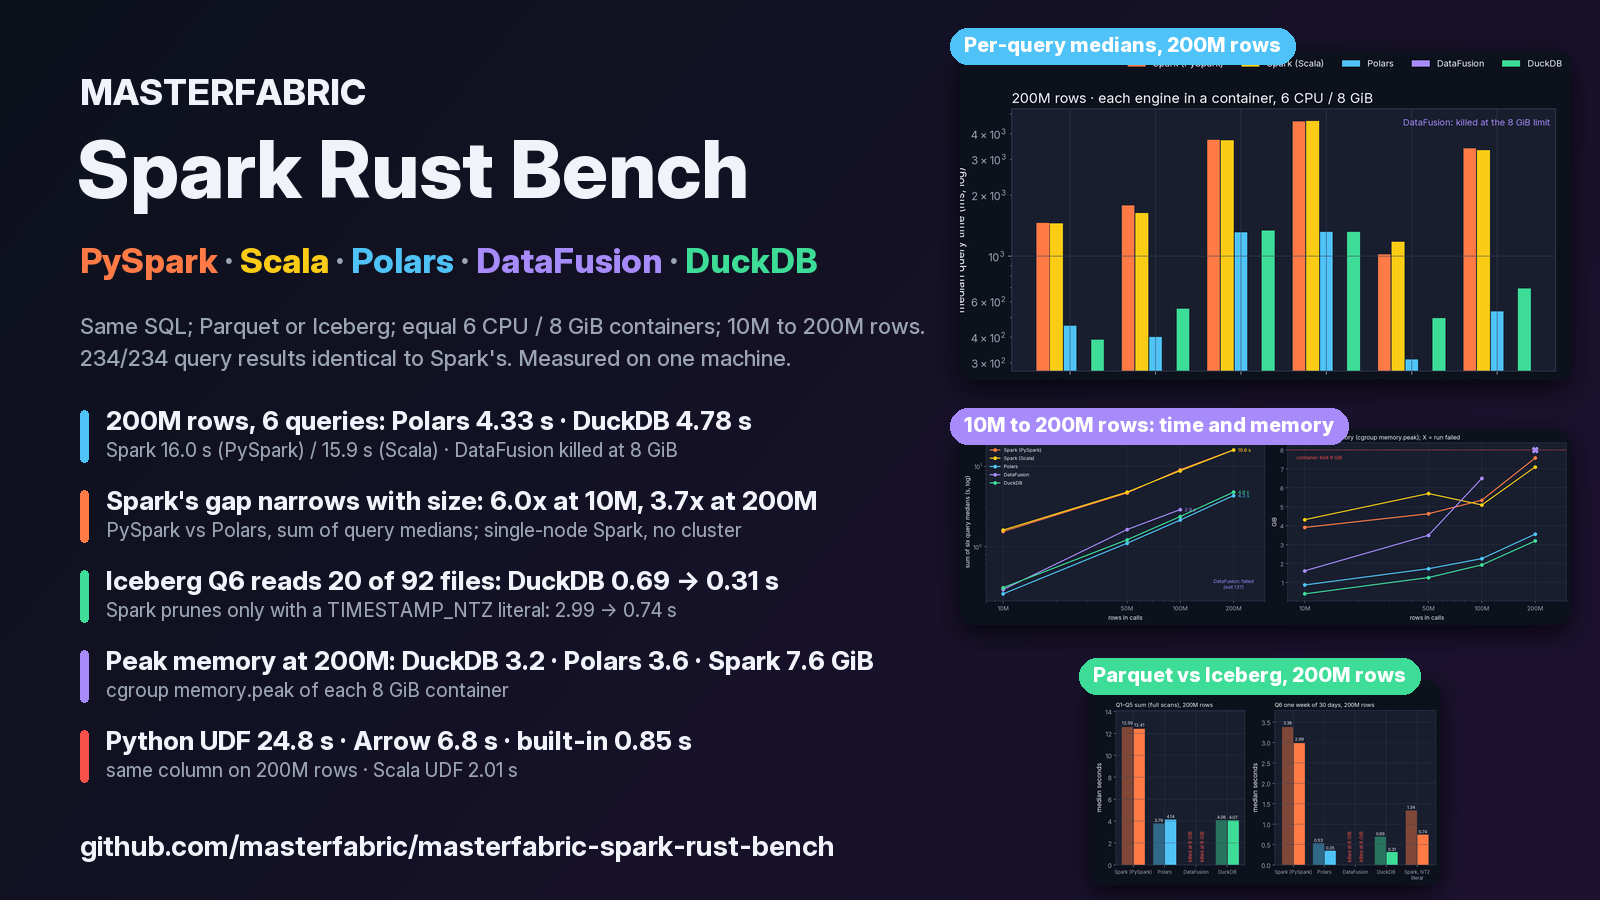
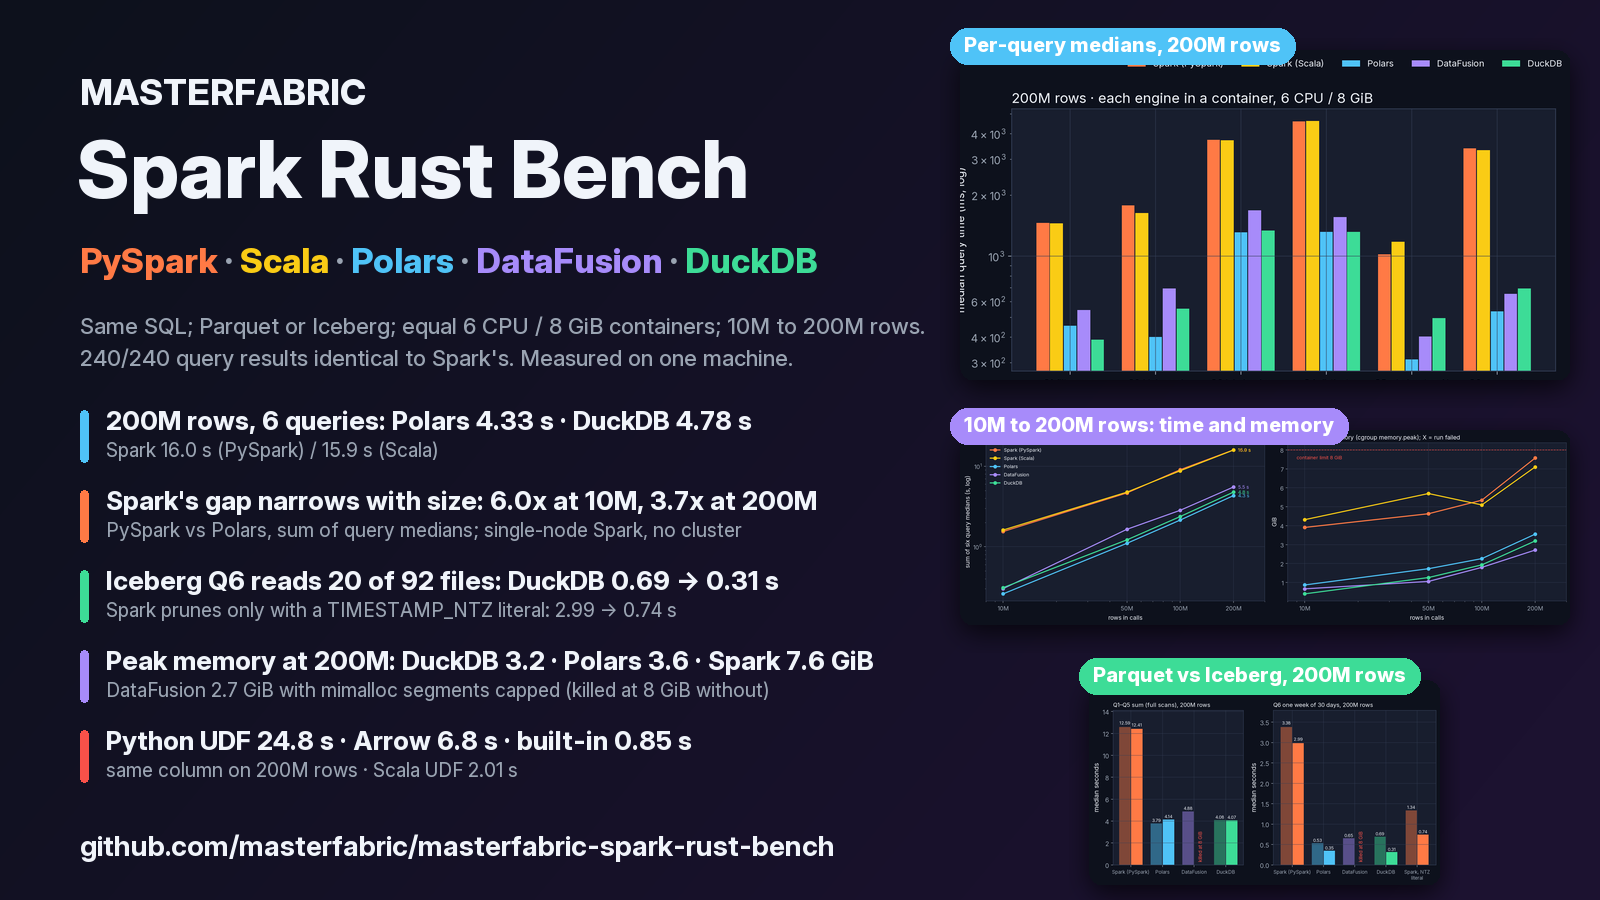
README: DataFusion at 200M rows (figure 7), the NTZ pruning reproduction (figure 8), updated tables and limitations; hero and setup diagram from the new results

diff --git a/viz/make_hero.py b/viz/make_hero.py
@@ -93,7 +93,8 @@ def main():
         (f"Iceberg Q6 reads {plan['q6_one_week']['files']} of {plan['full_scan']['files']} files: DuckDB {q(du, 'q6_one_week'):.2f} → {q(idu, 'q6_one_week'):.2f} s",
          f"Spark prunes only with a TIMESTAMP_NTZ literal: {q(ip, 'q6_one_week'):.2f} → {q(ip, 'q6_one_week_ntz'):.2f} s", GREEN),
         (f"Peak memory at 200M: DuckDB {du['peak_mem_mib'] / 1024:.1f} · Polars {po['peak_mem_mib'] / 1024:.1f} · Spark {p['peak_mem_mib'] / 1024:.1f} GiB",
-         "cgroup memory.peak of each 8 GiB container", PURPLE),
+         (f"DataFusion {s['engines']['datafusion_200m']['peak_mem_mib'] / 1024:.1f} GiB with mimalloc segments capped (killed at 8 GiB without)"
+          if "datafusion_200m" in s["engines"] else "cgroup memory.peak of each 8 GiB container"), PURPLE),
         (f"Python UDF {q(p, 'udf_tier_py'):.1f} s · Arrow {q(p, 'udf_tier_arrow'):.1f} s · built-in {q(p, 'udf_builtin'):.2f} s",
          f"same column on 200M rows · Scala UDF {q(sc, 'udf_tier_scala'):.2f} s", RED),
     ]

diff --git a/viz/make_diagrams.py b/viz/make_diagrams.py
@@ -36,7 +36,7 @@ def setup():
     d.text((1345, 316), "cgroup memory.peak", font=font(18, 600), fill=GREY)
     d.text((1345, 352), "a killed run is", font=font(18, 600), fill=GREY)
     d.text((1345, 378), "recorded, not hidden", font=font(18, 600), fill=GREY)
-    box(d, (1345, 600, 1570, 840), "collect.py", ["rows equal?", f"{ok_runs}/{runs} runs", "6/6 queries each", f"{fails} runs killed"],
+    box(d, (1345, 600, 1570, 840), "collect.py", ["rows equal?", f"{ok_runs}/{runs} runs", "6/6 queries each", f"{fails} run{'' if fails == 1 else 's'} killed"],
         RED, title_size=22, line_size=17)
     arrow(d, (1320, 720), (1345, 720), RED)
     arrow(d, (390, 405), (470, 470), GREEN)

diff --git a/README.md b/README.md
@@ -6,9 +6,14 @@ The same six analytical SQL queries over the same synthetic telco call records, 
 200M rows, run by **PySpark**, **Scala Spark**, **Polars**, **Apache DataFusion** and **DuckDB**,
 each alone in a container with the same limits (6 CPU, 8 GiB). The data is read from a folder of
 Parquet files and, at 50M and 200M rows, from an **Apache Iceberg** table written by Spark. Every
-run's rows are checked against Spark's before any time counts: **234 of 234 query results are
-identical** across 38 runs. Two runs did not finish (DataFusion at 200M rows, killed at the
-memory limit); they are reported, not dropped.
+run's rows are checked against Spark's before any time counts: **240 of 240 query results are
+identical** across 39 runs. One run did not finish (DataFusion reading the 200M-row Iceberg table,
+killed at the memory limit in the first round); it is reported, not dropped. DataFusion's memory
+growth at 200M rows was traced to its bundled allocator and fixed with one environment variable
+([below](#datafusion-memory-at-200m-rows)).
+
+Since 2026-11-23 there is also a [self-contained reproduction](examples/spark_ntz_pruning) of the
+Spark TIMESTAMP vs TIMESTAMP_NTZ pruning finding.
 
 It answers five questions an AI/data architect gets asked:
 
@@ -28,22 +33,22 @@ are read from [`results/summary.json`](results/summary.json).
 <p align="center"><img src="docs/images/query_times.png" alt="Grouped bar charts of median query time per engine and query at 50M and 200M rows, log scale" width="100%"></p>
 <p align="center"><em>Figure 1. Median of three timed runs after one first run, log scale, at 50M and 200M rows.
 Polars and DuckDB lead on every query; Spark from Python and from Scala are within noise of each
-other. DataFusion has no bars at 200M rows: it was killed at the 8 GiB limit.</em></p>
+other. DataFusion at 200M rows runs with MIMALLOC_TARGET_SEGMENTS_PER_THREAD=2 (see Figure 7).</em></p>
 
 Median seconds at **200M rows** (4,150 MiB of Parquet):
 
 | Query | PySpark | Scala Spark | Polars | DuckDB | DataFusion |
 |---|---:|---:|---:|---:|---:|
-| Q1 filter + aggregate | 1.457 | 1.450 | 0.454 | 0.389 | killed |
-| Q2 high-cardinality group-by, top 100 | 1.774 | 1.631 | 0.400 | 0.551 | |
-| Q3 join cells + daily aggregate | 3.736 | 3.720 | 1.307 | 1.334 | |
-| Q4 count distinct subscribers per region | 4.603 | 4.624 | 1.319 | 1.314 | |
-| Q5 window top-3 cells per region | 1.022 | 1.175 | 0.311 | 0.496 | |
-| Q6 one week of 30 days, joined to cells | 3.383 | 3.322 | 0.534 | 0.693 | |
-| **Sum** | **15.975** | **15.922** | **4.325** | **4.777** | |
+| Q1 filter + aggregate | 1.457 | 1.450 | 0.454 | 0.389 | 0.544 |
+| Q2 high-cardinality group-by, top 100 | 1.774 | 1.631 | 0.400 | 0.551 | 0.693 |
+| Q3 join cells + daily aggregate | 3.736 | 3.720 | 1.307 | 1.334 | 1.682 |
+| Q4 count distinct subscribers per region | 4.603 | 4.624 | 1.319 | 1.314 | 1.559 |
+| Q5 window top-3 cells per region | 1.022 | 1.175 | 0.311 | 0.496 | 0.403 |
+| Q6 one week of 30 days, joined to cells | 3.383 | 3.322 | 0.534 | 0.693 | 0.652 |
+| **Sum** | **15.975** | **15.922** | **4.325** | **4.777** | **5.532** |
 
 At **50M rows** (1,038 MiB) the sums are 4.660 s (PySpark), 4.769 s (Scala), 1.103 s (Polars),
-1.217 s (DuckDB) and 1.632 s (DataFusion). Spark's first run of a query is up to 3.2 times slower
+1.217 s (DuckDB) and 1.647 s (DataFusion). Spark's first run of a query is up to 3.2 times slower
 than its median at 50M rows (PySpark Q1: 1.42 s first, 0.48 s median) and up to 2.1 times at 200M rows.
 DuckDB's and DataFusion's first runs are within 10% of their medians; Polars' first runs of Q1
 to Q3 are 2 to 3.4 times its medians.
@@ -52,22 +57,44 @@ to Q3 are 2 to 3.4 times its medians.
 
 <p align="center"><img src="docs/images/scaling.png" alt="Line charts: sum of six query medians and peak container memory against rows, 10M to 200M, per engine" width="100%"></p>
 <p align="center"><em>Figure 2. Left: sum of the six query medians as data grows (log-log). Right: peak
-container memory; the X marks DataFusion's killed run at 200M rows, the dashed line the 8 GiB limit.</em></p>
+container memory, the dashed line the 8 GiB limit. DataFusion runs with the mimalloc setting from Figure 7 at every size.</em></p>
 
 | Rows (Parquet) | PySpark | Scala Spark | Polars | DuckDB | DataFusion | PySpark / Polars |
 |---|---:|---:|---:|---:|---:|---:|
-| 10M (207 MiB) | 1.545 s | 1.613 s | 0.260 s | 0.310 s | 0.293 s | 5.9x |
-| 50M (1,038 MiB) | 4.660 s | 4.769 s | 1.103 s | 1.217 s | 1.632 s | 4.2x |
-| 100M (2,075 MiB) | 9.067 s | 8.793 s | 2.146 s | 2.373 s | 2.896 s | 4.2x |
-| 200M (4,150 MiB) | 15.975 s | 15.922 s | 4.325 s | 4.777 s | killed (exit 137) | 3.7x |
-| Peak memory at 200M | 7.6 GiB | 7.1 GiB | 3.6 GiB | 3.2 GiB | 8 GiB (limit) | |
+| 10M (207 MiB) | 1.545 s | 1.613 s | 0.260 s | 0.310 s | 0.301 s | 5.9x |
+| 50M (1,038 MiB) | 4.660 s | 4.769 s | 1.103 s | 1.217 s | 1.647 s | 4.2x |
+| 100M (2,075 MiB) | 9.067 s | 8.793 s | 2.146 s | 2.373 s | 2.838 s | 4.2x |
+| 200M (4,150 MiB) | 15.975 s | 15.922 s | 4.325 s | 4.777 s | 5.532 s | 3.7x |
+| Peak memory at 200M | 7.6 GiB | 7.1 GiB | 3.6 GiB | 3.2 GiB | 2.7 GiB | |
 
 From 100M to 200M rows the single-node engines take 2.0 times as long and Spark 1.8 times: Spark's
-fixed cost per query is a smaller share of a bigger job, so its gap narrows, slowly. DataFusion's
-resident memory grows with each repeated query in one session (Q1 at 200M rows: 0.9, 1.7, 2.5,
-3.3 GiB after runs 1 to 4), which ends the 200M-row run on Q3; a bounded spill pool and glibc
-allocator settings did not change it ([ADR 0006](docs/adr/0006-scaling-to-200m-rows.md)). On the
-host without a memory limit DataFusion finished 200M rows in 2.917 s.
+fixed cost per query is a smaller share of a bigger job, so its gap narrows, slowly. In the first
+round DataFusion was killed at 200M rows; with the allocator setting below it finishes in 5.532 s
+using 2.7 GiB, the least memory of the five engines
+([ADR 0006](docs/adr/0006-scaling-to-200m-rows.md), [ADR 0007](docs/adr/0007-datafusion-memory-and-mimalloc.md)).
+On the host without a memory limit DataFusion finished 200M rows in 2.917 s.
+
+### DataFusion memory at 200M rows
+
+<p align="center"><img src="docs/images/df_memory.png" alt="Left: DataFusion resident memory after each of 24 query runs at 200M rows for eight variants; six are killed at Q3, the mimalloc segment cap and a 12 s pause stay flat. Right: memory added per run next to the compressed size of the column read, for three columns" width="100%"></p>
+<p align="center"><em>Figure 7. Left: resident memory after each query run in one DataFusion process (six queries, four
+runs each). Every variant without the mimalloc segment cap or a pause was killed on Q3. Right: the memory
+added per run is about the compressed size of the column the query reads.</em></p>
+
+`make df-memory` runs the six queries four times in one process at 200M rows in the benchmark
+container, with eight variants. glibc settings, a 4 GiB spill pool and a new session for every run
+were all killed on Q3's third run: the datafusion-python wheel bundles mimalloc, and the memory is
+not held by DataFusion's operators. What grows is about the compressed bytes each run reads
+(0.29, 0.48 and 0.81 GiB per run for columns of 0.25, 0.41 and 0.80 GiB), kept in the per-thread
+heaps of tokio's blocking I/O threads. A 12 s pause lets those threads exit (44 → 7 threads) and
+memory stays at 1.4 GiB; `MIMALLOC_TARGET_SEGMENTS_PER_THREAD=2` keeps it at about 2–3 GiB without
+the pause and is now the default in `bench/run_all.sh` (`DF_MIMALLOC_SEGMENTS=0` turns it off).
+
+| DataFusion peak container memory | 10M | 50M | 100M | 200M |
+|---|---:|---:|---:|---:|
+| Default allocator settings (first round) | 1,653 MiB | 3,575 MiB | 6,652 MiB | killed at 8,192 |
+| `MIMALLOC_TARGET_SEGMENTS_PER_THREAD=2` | 679 MiB | 1,080 MiB | 1,841 MiB | 2,776 MiB |
+| Sum of six medians, default → capped | 0.293 → 0.301 s | 1.632 → 1.647 s | 2.896 → 2.838 s | – → 5.532 s |
 
 ### Iceberg reads
 
@@ -92,12 +119,23 @@ and 20 of 92 files, 23% of the bytes, in 2.5 to 4.2 ms. Median seconds at 200M r
 
 At 50M rows DataFusion read Iceberg too (through PyIceberg's file plan, since the native
 `pyiceberg-core` provider is built for DataFusion 54, not 55): Q6 0.180 → 0.108 s, but peak memory
-3.5 → 7.3 GiB. Its 200M-row Iceberg run was killed like the Parquet one.
+3.5 → 7.3 GiB. Its 200M-row Iceberg run was killed in the first round and was not re-run with the
+allocator setting (the 200M Iceberg tables were removed to save disk).
 
 The `start_ts` column has no time zone, so Spark types it `TIMESTAMP_NTZ`; the portable zoned
 literal makes Spark cast the column, and EXPLAIN shows the date range never reaches the Iceberg
 scan. Written as `TIMESTAMP_NTZ`, the filter is pushed down and Q6 drops from 2.989 s to 0.742 s
 ([ADR 0005](docs/adr/0005-iceberg-reads-from-single-node-engines.md)).
+
+<p align="center"><img src="docs/images/ntz_pruning.png" alt="Bar charts: a one-week filter on a 30-file Iceberg table reads 30 files in 188 ms with a TIMESTAMP literal, 7 files in 44 ms with a TIMESTAMP_NTZ literal and 7 files in 42 ms with the session timestampType set to NTZ" width="100%"></p>
+<p align="center"><em>Figure 8. The pruning finding on its own, from <a href="examples/spark_ntz_pruning">examples/spark_ntz_pruning</a>:
+30 days, 6M rows, one file per day. The same 1,400,000 rows come back every time.</em></p>
+
+`make ntz-repro` builds a small day-partitioned Iceberg table inside the Spark image and runs the
+same one-week filter three ways. With the portable literal Spark casts the column and reads all
+30 files (188 ms); with a `TIMESTAMP_NTZ` literal, or with `spark.sql.timestampType=TIMESTAMP_NTZ`
+for the session, it reads 7 and skips 23 (44 and 42 ms). The session setting fixes existing SQL
+without rewriting it, but changes how every zone-less literal in that session is typed.
 
 ### Whole run and memory
 
@@ -144,7 +182,8 @@ queries at 200M rows sum to 2.248 s (Polars), 2.421 s (DuckDB) and 2.917 s (Data
   In Spark, check that filters actually reach the scan: a zoned literal on a zone-less column
   silently turns pruning off.
 - **Memory decides where one node stops**, not speed: at 200M rows Spark used 7.6 of 8 GiB and
-  DataFusion did not finish, while DuckDB and Polars stayed under 3.7 GiB.
+  DuckDB, Polars and DataFusion stayed under 3.7 GiB. DataFusion only after capping its
+  allocator's per-thread caches; with defaults it was killed at 8 GiB.
 
 ## How it works
 
@@ -179,6 +218,8 @@ flowchart LR
 | [`bench/run_python_engine.py`](bench/run_python_engine.py) | Polars (`SQLContext` over lazy scans), DataFusion (`SessionContext`) and DuckDB (views over `read_parquet`); with `iceberg`, `scan_iceberg`, PyIceberg's file plan and `iceberg_scan`. |
 | [`bench/Dockerfile.engines`](bench/Dockerfile.engines) | The single-node engines image, with DuckDB's iceberg extension installed at build time. |
 | [`bench/run_all.sh`](bench/run_all.sh) | Runs every engine in its own container, records cgroup peak memory, host wall time and the exit code of a failed run, then the Iceberg stage. |
+| [`bench/df_memory.py`](bench/df_memory.py), [`bench/df_column_probe.py`](bench/df_column_probe.py) | DataFusion memory diagnosis: eight variants over 24 query runs at 200M rows, and memory added per run per column (`make df-memory`). |
+| [`examples/spark_ntz_pruning`](examples/spark_ntz_pruning) | Self-contained reproduction of the Spark TIMESTAMP vs TIMESTAMP_NTZ Iceberg pruning finding (`make ntz-repro`). |
 | [`bench/collect.py`](bench/collect.py) | Builds `results/summary.json`, checks each run's rows against PySpark's, and lists failed runs and Iceberg plans. |
 | [`tests/`](tests) | Polars, DataFusion and DuckDB agree on all six queries from Parquet and from an Iceberg table written in two snapshots; tolerance unit tests. |
 
@@ -190,6 +231,7 @@ Decisions are recorded as ADRs:
 - [ADR 0004: DuckDB as a single-node engine next to Polars and DataFusion](docs/adr/0004-duckdb-as-a-single-node-engine.md)
 - [ADR 0005: Reading Iceberg tables from single-node engines](docs/adr/0005-iceberg-reads-from-single-node-engines.md)
 - [ADR 0006: What changes between 10M and 200M rows on one node](docs/adr/0006-scaling-to-200m-rows.md)
+- [ADR 0007: DataFusion's memory growth comes from mimalloc's per-thread segments](docs/adr/0007-datafusion-memory-and-mimalloc.md)
 
 ## Enterprise mapping
 
@@ -231,9 +273,11 @@ make collect test charts  # summary.json, correctness tests (9), images
   results say nothing about multi-node shuffles, executor failures or terabyte inputs, which is
   where Spark is built to win. 200M rows is the largest size measured; the trend in Figure 2
   should not be extrapolated to a cluster.
-- **DataFusion's memory growth is measured, not explained.** Resident memory grows with each
-  repeat of a query in one session; glibc allocator settings and a 4 GiB spill pool did not change
-  it. With a fresh session per query it might finish 200M rows; that was not run.
+- **DataFusion's memory fix is an allocator setting, explained by elimination.** Eight variants
+  point to mimalloc's per-thread heaps on tokio's I/O threads; mimalloc itself was not traced. The
+  setting was measured on this workload only (six queries, one process); a service with a
+  different query mix should measure its own resident memory. DataFusion's 200M-row Iceberg read
+  was not re-run.
 - **Iceberg in a Hadoop catalog, append-only.** No REST or Hive catalog, no delete files, no
   schema evolution, no compaction. DataFusion reads Iceberg through PyIceberg's file plan, not a
   native reader, and refuses tables with delete files.
@@ -259,7 +303,7 @@ make collect test charts  # summary.json, correctness tests (9), images
 - Repeat on a 3-node Spark cluster with the same queries at 500M+ rows to find the crossover point.
 - Add Apache DataFusion Comet as a Spark plug-in and measure it on the same SQL.
 - Read the Iceberg tables through a REST catalog, after row-level deletes and compaction.
-- Isolate DataFusion's memory growth (one session per query, other allocators) and report it upstream if it reproduces.
+- Report the DataFusion memory growth upstream with `bench/df_memory.py` as the reproduction, and re-run the 200M Iceberg read.
 - Cold-cache runs (drop caches between runs) and more repeats.
 
 ## Related MasterFabric repositories
